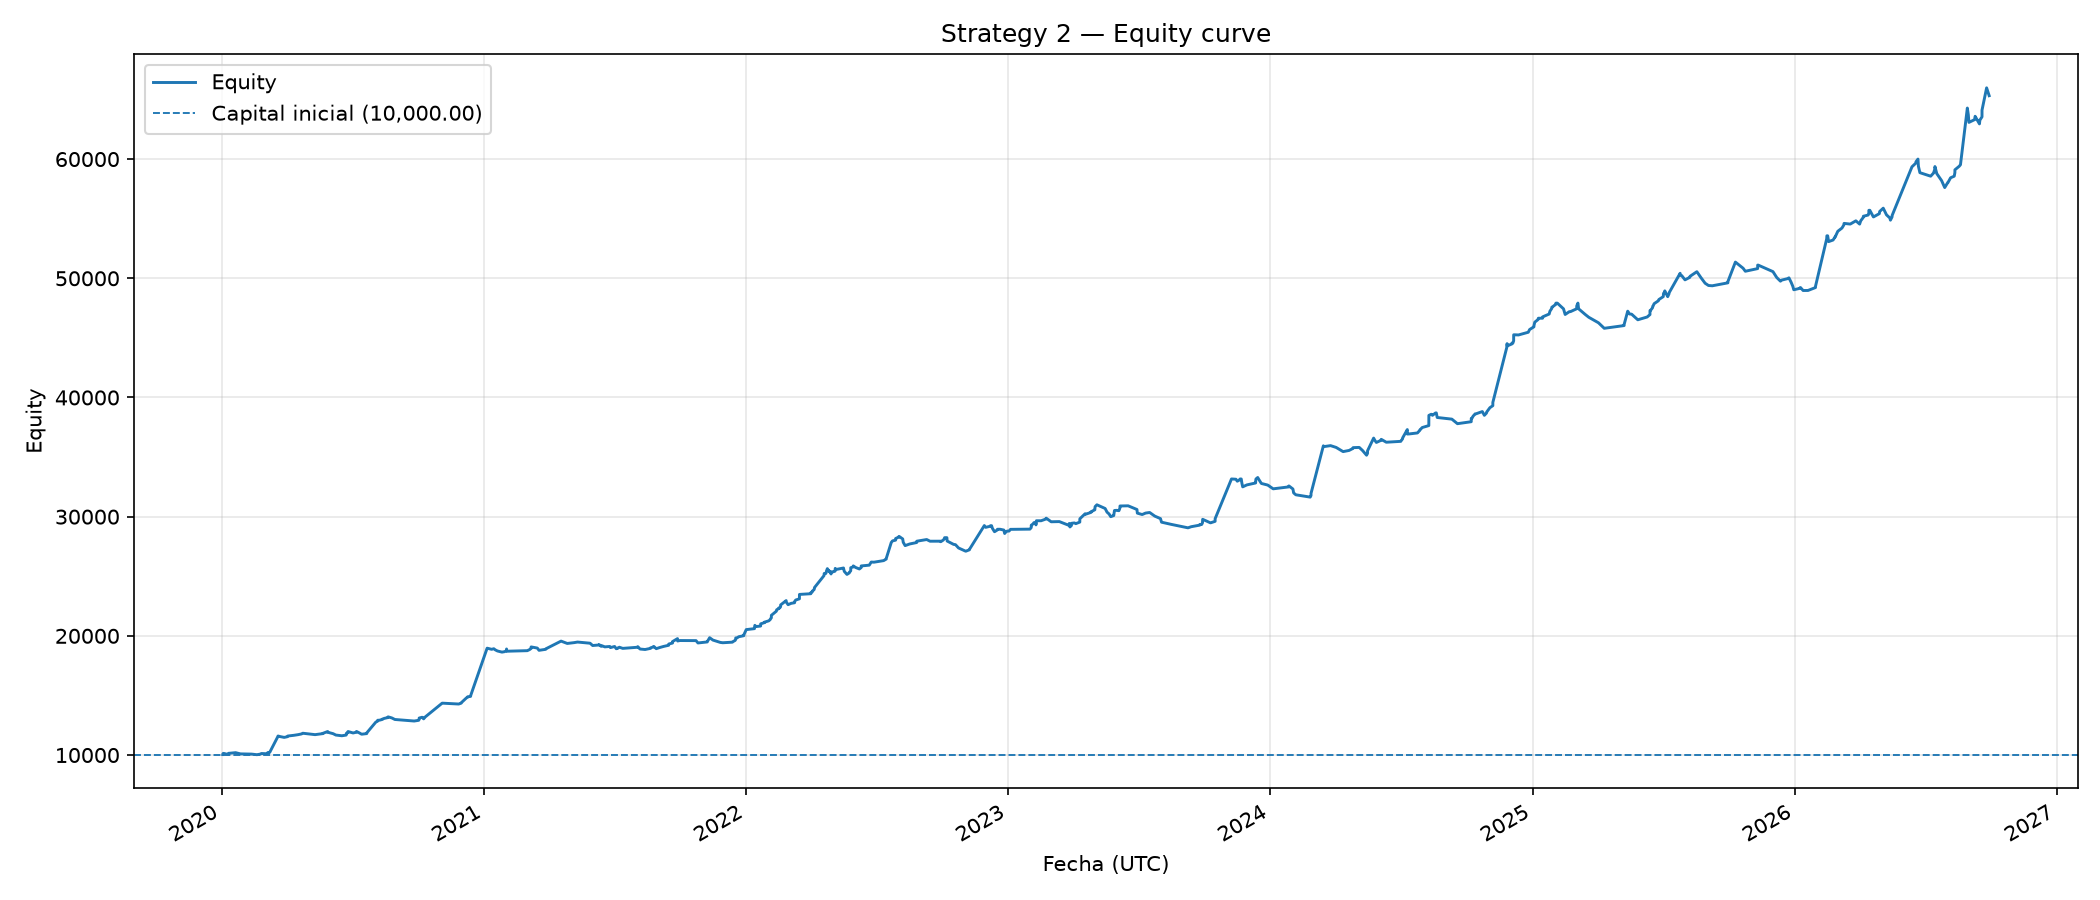
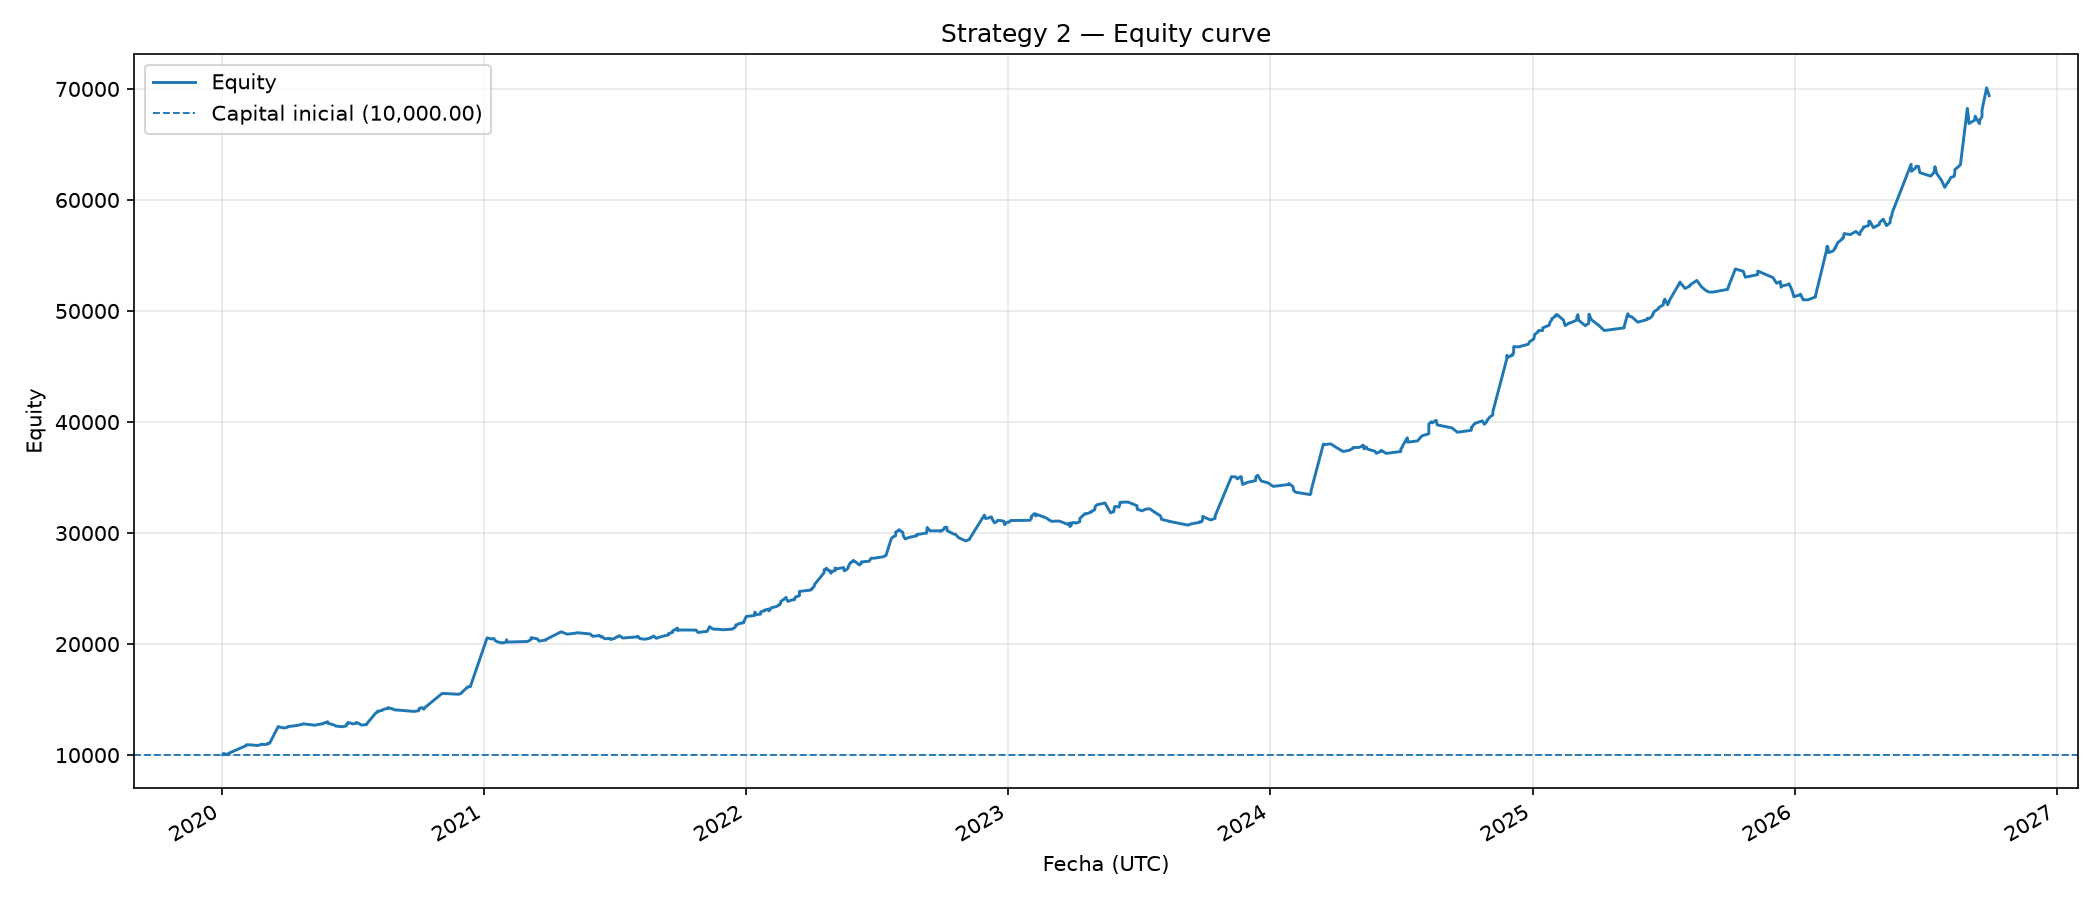
update

diff --git a/strategy/config.py b/strategy/config.py
@@ -157,7 +157,7 @@ class Config:
     # actual no siempre exige un toque real a la EMA.
     entry_partial_enabled: bool = True
     entry_partial_pct: float = 50.0        # % inicial (0 < pct < 100)
-    entry_confirm_mode: str = "pullback_retest"  # "bars" | "close_above_ema" | "pullback_retest"
+    entry_confirm_mode: str = "close_above_ema"  # "bars" | "close_above_ema" | "pullback_retest"
     entry_confirm_bars: int = 2            # Nº de velas tras entrada parcial
     entry_confirm_close_in_dir: bool = True  # Exige cierre a favor para barras y patrones
     entry_confirm_retest_tol_pct: float = 0.10  # Tolerancia % para pullback_retest
